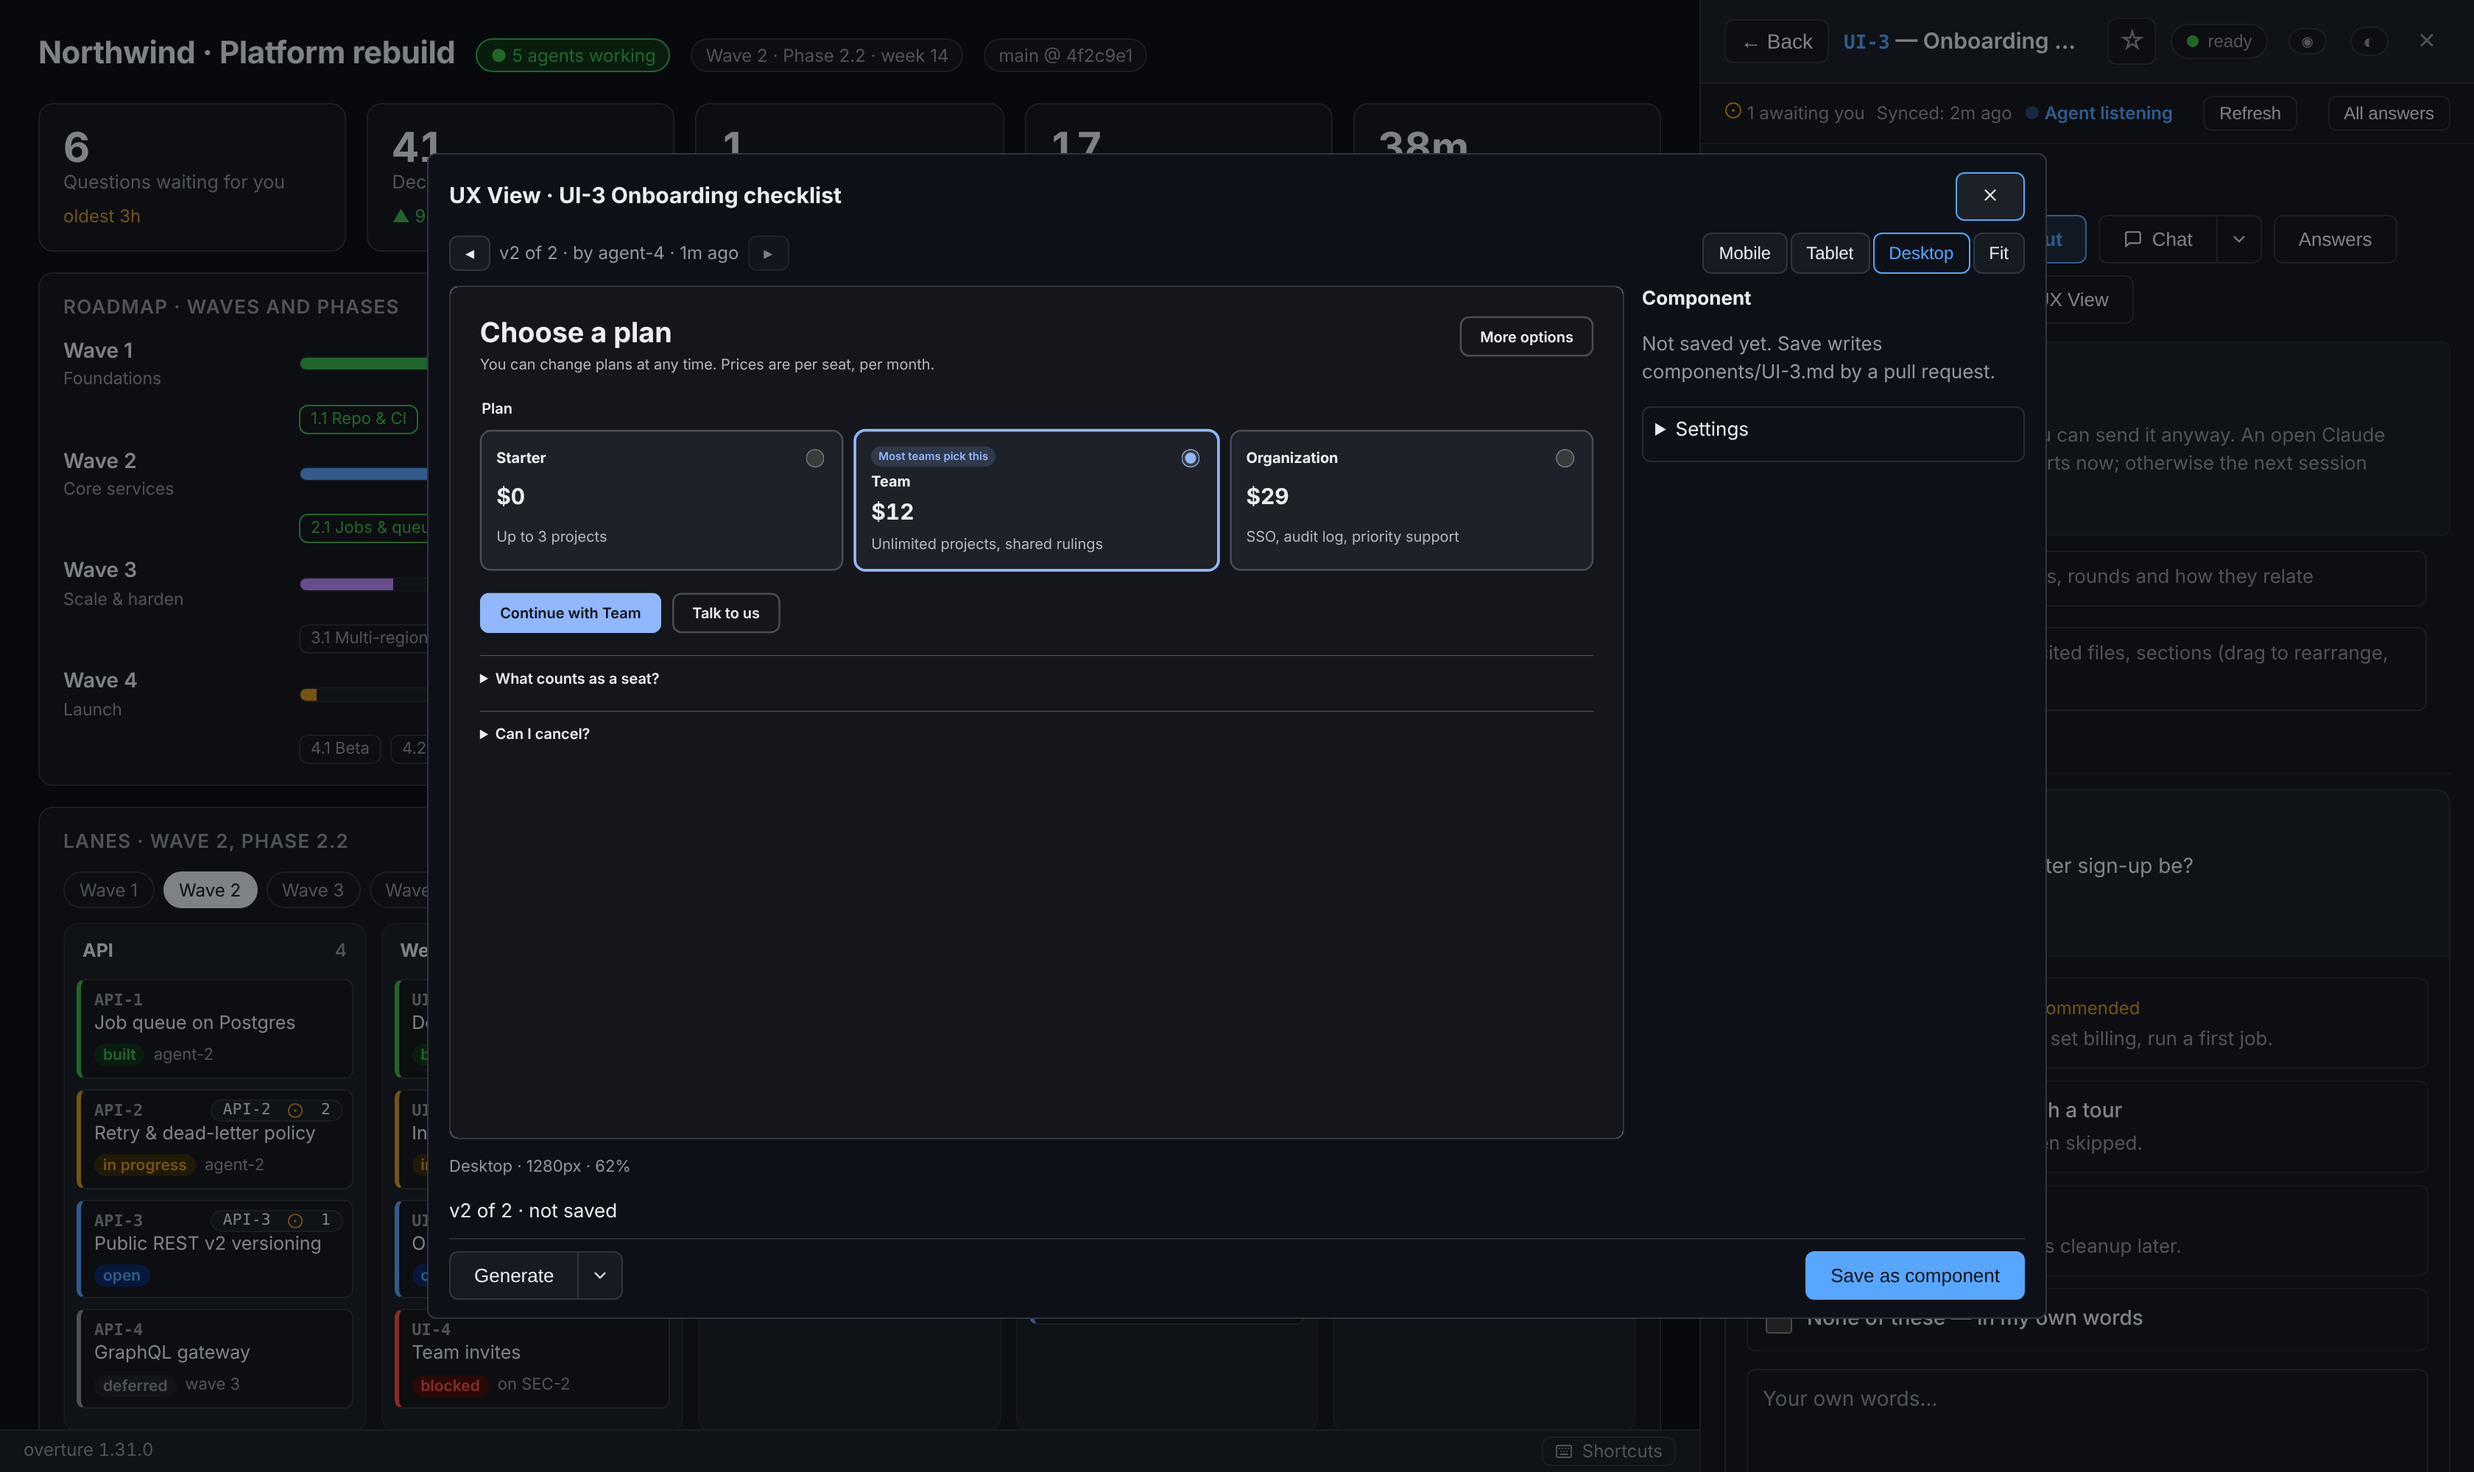
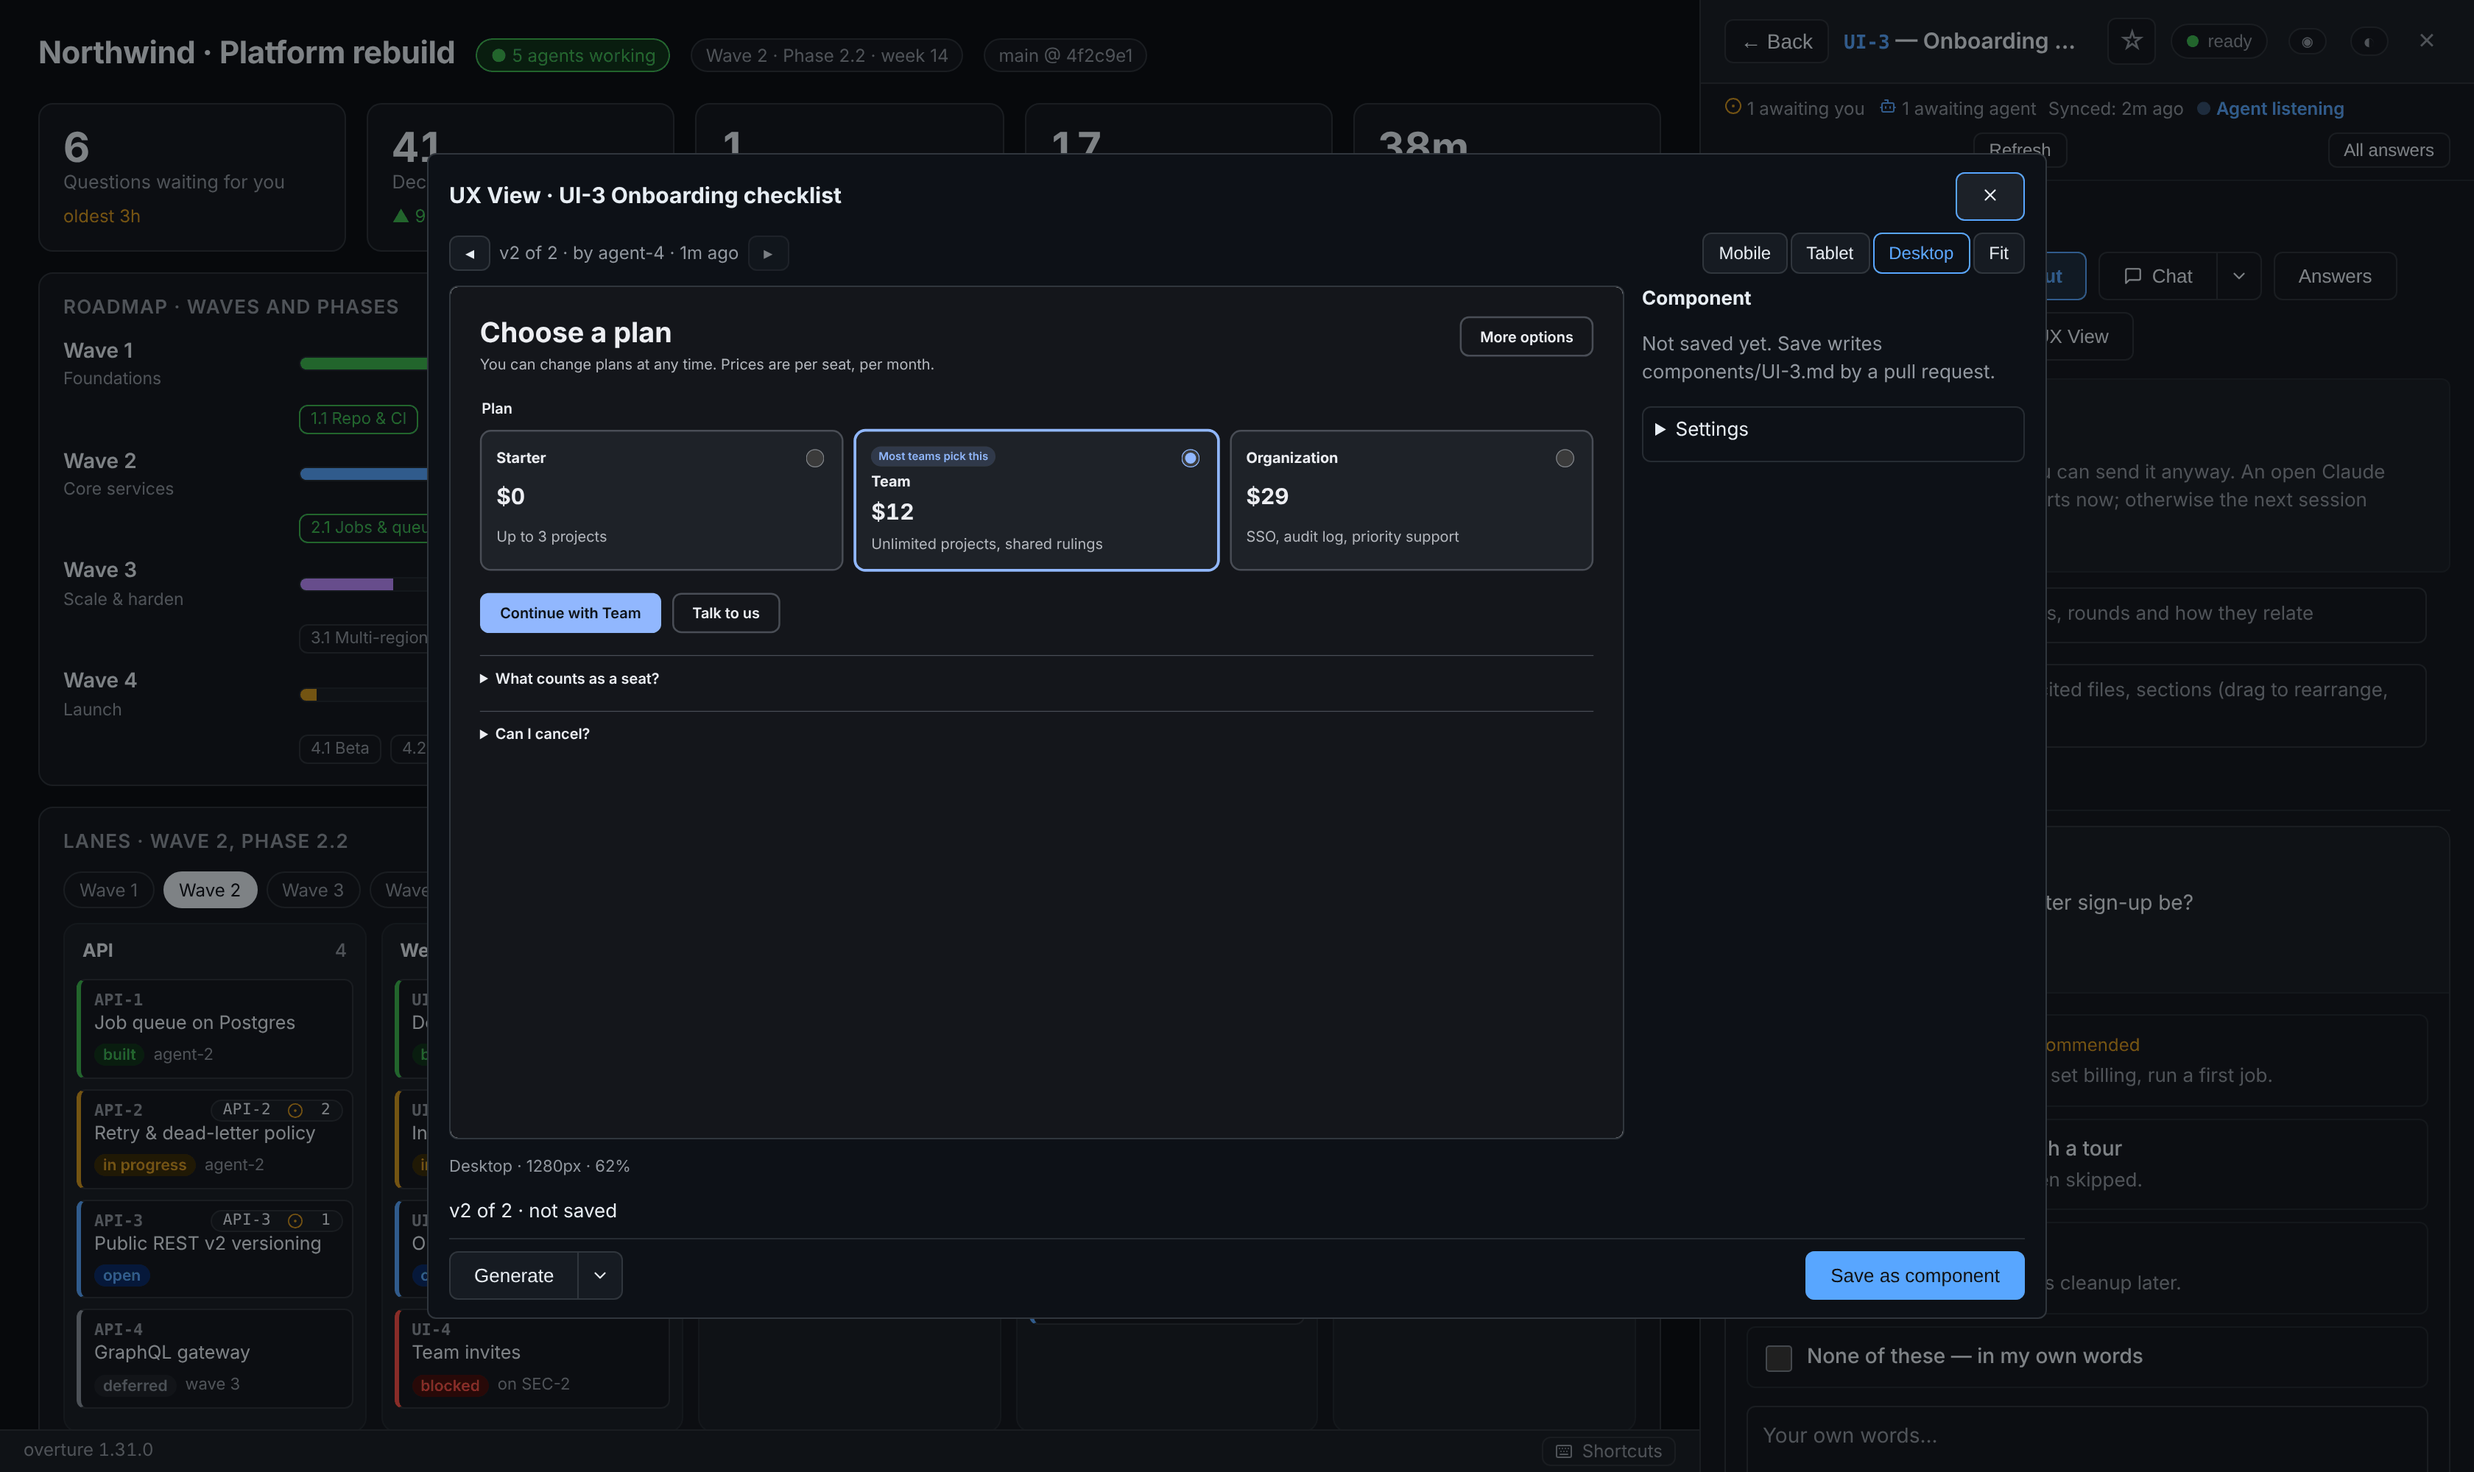
README: screenshots of the new interfaces (#148)
* Demo seed and scenes for the new interfaces (UX View picker, PR merge, attach image)

Claude-Session: https://claude.ai/code/session_01ECWTMJdV8EtKvMwqCxis3n

* README: sections for UX View, PR merge, attach image and running the server (images follow)

Claude-Session: https://claude.ai/code/session_01ECWTMJdV8EtKvMwqCxis3n

* README: screenshots of UX View, the design picker, PR merge and attach image

Claude-Session: https://claude.ai/code/session_01ECWTMJdV8EtKvMwqCxis3n

---------

diff --git a/plugin/kit/overture/console.js b/plugin/kit/overture/console.js
@@ -5602,7 +5602,7 @@
     const fileInput = el('input', { type: 'file', accept: 'image/png,image/jpeg,image/webp,image/gif', hidden: 'hidden',
       'aria-label': 'Choose an image to attach to ' + itemId });
     const attachBtn = el('button', { className: 'ck-btn ck-btn-quiet', type: 'button',
-      'aria-label': 'Attach an image to ' + itemId }, [icon('image') || '', 'Attach image']);
+      'aria-label': 'Attach an image to ' + itemId }, [icon('image') || '', ' Attach image']);
     attachBtn.addEventListener('click', () => fileInput.click());
     const doAttach = async file => {
       attachStatus.textContent = 'Attaching\u2026';

diff --git a/docs/demo/screenshots.py b/docs/demo/screenshots.py
@@ -338,7 +338,8 @@ class Demo:
              "author": "agent-bot", "created_at": ts(c), "updated_at": ts(m if m else 1),
              "merged_at": ts(m) if st == "merged" else None, "closed_at": ts(m) if st == "merged" else None,
              "url": f"https://github.com/{repo}/pull/{n}",
-             "merge_commit": (secrets.token_hex(20) if st == "merged" else None), "checks": ck}
+             "merge_commit": (secrets.token_hex(20) if st == "merged" else None), "checks": ck,
+             "head_sha": secrets.token_hex(20)}
             for n, t, st, d, ck, c, m in prs]}
         self.agent("/prs", body, "steward")
 
@@ -363,6 +364,21 @@ class Demo:
                                             "purpose": "ux"})["record"]
         self.agent("/visual", {"request": ureq2["id"], "format": "html", "title": "Plan picker", "content": comp,
                                "text": "Second pass: clearer price and a recommended plan."}, "agent-4")
+
+        # 1.33: UI-3 is linked to a Claude Design whose artifacts an agent listed (the UX View picker), and the
+        # owner has attached a picture of their own to it.
+        design = "https://claude.ai/design/p/fee63c71-69b8-455c-bb5b-c7935342adc1"
+        self.owner("/api/message", {"item": "UI-3", "intent": "ux-link", "url": design, "text": "Link the design"})
+        self.agent("/design-inventory", {"url": design, "nonce": "di1", "artifacts": [
+            {"path": "components/plan-card.html", "title": "Plan card"},
+            {"path": "components/checkout-form.html", "title": "Checkout form"},
+            {"path": "buttons/primary.html", "title": "Primary button"},
+            {"path": "buttons/secondary.html", "title": "Secondary button"},
+            {"path": "tokens/colors.html", "title": "Colour tokens"},
+            {"path": "tokens/type.html", "title": "Type scale"},
+            {"path": "layout/two-column.html", "title": "Two-column layout"}]}, "agent-4")
+        sketch = base64.b64encode((shots / "tabs-before.png").read_bytes()).decode()
+        self.owner("/api/asset-upload", {"item": "UI-3", "content_b64": sketch, "caption": "My sketch: keep the plans in one row"})
 
         # The steward is watching and synced a minute ago.
         self.agent("/cursor", {"last_synced_at": (now - timedelta(minutes=1)).strftime("%Y-%m-%dT%H:%M:%SZ")},
@@ -544,6 +560,35 @@ def capture(demo: Demo) -> list[str]:
             pg.wait_for_timeout(1200)
             pg.screenshot(path=str(OUT / "feature-ux-view.png"))
         shot("feature-ux-view", ux_view)
+
+        def ux_picker(pg):
+            item(pg, "UI-3")
+            pg.get_by_role("button", name="Open UX View for UI-3").click()
+            pg.wait_for_selector("#ck-ux-view")
+            pg.locator(".ck-ux-settings summary").click()
+            boxes = pg.locator(".ck-ux-ref input[type=checkbox]")
+            boxes.nth(0).check()
+            boxes.nth(2).check()
+            pg.locator(".ck-ux-refmode").nth(2).select_option("swap")
+            pg.wait_for_timeout(1200)
+            pg.screenshot(path=str(OUT / "feature-ux-picker.png"))
+        shot("feature-ux-picker", ux_picker)
+
+        def pr_merge(pg):
+            pg.locator("#ck-tab-prs").click()
+            pg.wait_for_timeout(900)
+            pg.get_by_role("button", name="Merge pull request 214 into main").click()
+            pg.wait_for_timeout(500)
+            panel(pg, "feature-pr-merge")
+        shot("feature-pr-merge", pr_merge)
+
+        def attach(pg):
+            item(pg, "UI-3")
+            pg.locator(".ck-attach-row").scroll_into_view_if_needed()
+            pg.evaluate("document.querySelector('.ck-attach-row').scrollIntoView({block: 'center'})")
+            pg.wait_for_timeout(500)
+            panel(pg, "feature-attach")
+        shot("feature-attach", attach)
 
         def asset_viewer(pg):
             item(pg, "UI-1")

diff --git a/README.md b/README.md
@@ -188,6 +188,21 @@ banner naming the new version and the commands most useful at that moment
 | [docs/DEPLOY.md](plugin/kit/docs/DEPLOY.md) | Installing, upgrading and rolling back the systemd services. |
 | [docs/RUNBOOK.md](plugin/kit/docs/RUNBOOK.md) | Symptoms, checks and fixes, starting with the loopback `/health` check. |
 
+## Keep the server running
+
+One server, `server.py --all`, hosts every project. Run it however suits the
+machine:
+
+    <py> <kit>/server.py daemon start|stop         # detached, with a pid file and a log
+    <py> <kit>/server.py service install --start   # a systemd user unit (Linux, WSL)
+    <py> <kit>/server.py status                    # which mode, pid, each project's port
+    <py> <kit>/server.py health                    # agent door, version skew, linger; clears stale files
+
+`status` and `health` only read; a daemon and a service refuse to run
+together. A plugin setting, **Machine role**, or `agent.py role worker` marks
+a machine where no session may be the steward (for laptops that only work
+while the steward runs on a home server). See [docs/JOIN.md](docs/JOIN.md).
+
 ## Name the session, bootstrap the dashboard
 
 **Set the agent id for a Claude session** — type this in Claude Code:
@@ -440,6 +455,12 @@ others with ◂ ▸ or the arrow keys.
 
 <img src="docs/screenshots/feature-assets.png" alt="The Feed's Screenshots filter: a UX component at 375px, and the tab bar before and after icons, side by side" width="400">
 
+You can add your own too. In an item's Discussion box, **Attach image** (or
+paste an image) puts your picture on that item, shown as "you", beside the
+agents' screenshots.
+
+<img src="docs/screenshots/feature-attach.png" alt="An item's Screenshots fold with an agent's plan picker and the owner's own sketch, and the Discussion box with Send and Attach image" width="400">
+
 - **Formats:** PNG, JPEG, WebP or GIF. The format is decided from the
   file's own bytes, never its name, and SVG is refused because it can carry
   script.
@@ -454,6 +475,33 @@ others with ◂ ▸ or the arrow keys.
   twice).
 - **Reduced motion:** with reduced motion turned on, a GIF waits for you to
   press play.
+
+### Design UI components in UX View
+
+On a UI or UX item, **◫ UX View** (or `u`) opens a full-screen workspace
+over the item's HTML mock-ups. You see each version in a sandbox at
+Mobile, Tablet, Desktop or Fit width, step through versions with ◂ ▸ (or `[`
+and `]`), and press **Generate** for another. **Save as component** asks the
+steward to land the version as `components/<item>.md` by pull request; a
+replaced component is kept in `components/.history/`.
+
+<img src="docs/screenshots/feature-ux-view.png" alt="UX View: a plan-picker component in a sandbox at desktop width, a version stepper, size buttons, Generate and Save as component" width="720">
+
+Settings, in the same window, hold the rest:
+
+- **Claude Design link.** Link the item to its Claude Design project
+  (`https://claude.ai/design/p/<id>`). The console never opens or fetches it;
+  the agent reads the design with your login.
+- **Design system artifacts.** An agent lists the design's artifacts
+  (`agent.py design-inventory`). You filter, tick up to 10, and mark each
+  **inspire** (borrow the look) or **swap** (build the new version from that
+  artifact); **Generate** carries your picks. A swap is always a new version,
+  never an overwrite.
+- **Scripts (this version).** Off by default. An agent may store a scripted
+  source beside the script-free version; only your switch lets it run, in a
+  sealed frame with no access to the console, its cookies or the network.
+
+<img src="docs/screenshots/feature-ux-picker.png" alt="UX View with Settings open: the Claude Design link, a list of design artifacts with two ticked, one marked swap, and the Scripts switch" width="720">
 
 ### Track work as tickets
 
@@ -512,6 +560,15 @@ server cannot check it.
   (`agent.py prs-push`), and the tab says when it last did.
 
   <img src="docs/screenshots/feature-prs.png" alt="The PRs tab: two open pull requests and three merged, each with checks and an Open button for its item" width="400">
+
+  An open, ready, passing pull request has a **Merge** button. It asks
+  first ("Merge #214 into main?", with a link to the diff), and then sends
+  your request to the steward, whose own session merges it, pinned to the
+  commit you saw. The console never merges anything and holds no GitHub
+  token. If the pull request changed since you looked, or the request is over
+  24 hours old, nothing is merged and the steward says why.
+
+  <img src="docs/screenshots/feature-pr-merge.png" alt="The PRs tab with Merge #214 into main? open: the diff link, Merge and Cancel" width="400">
 
 - The **Favorite** tab lists everything you starred, grouped by item.
 - **Cross-project priority ribbon.** The Inbox opens with up to six of the
